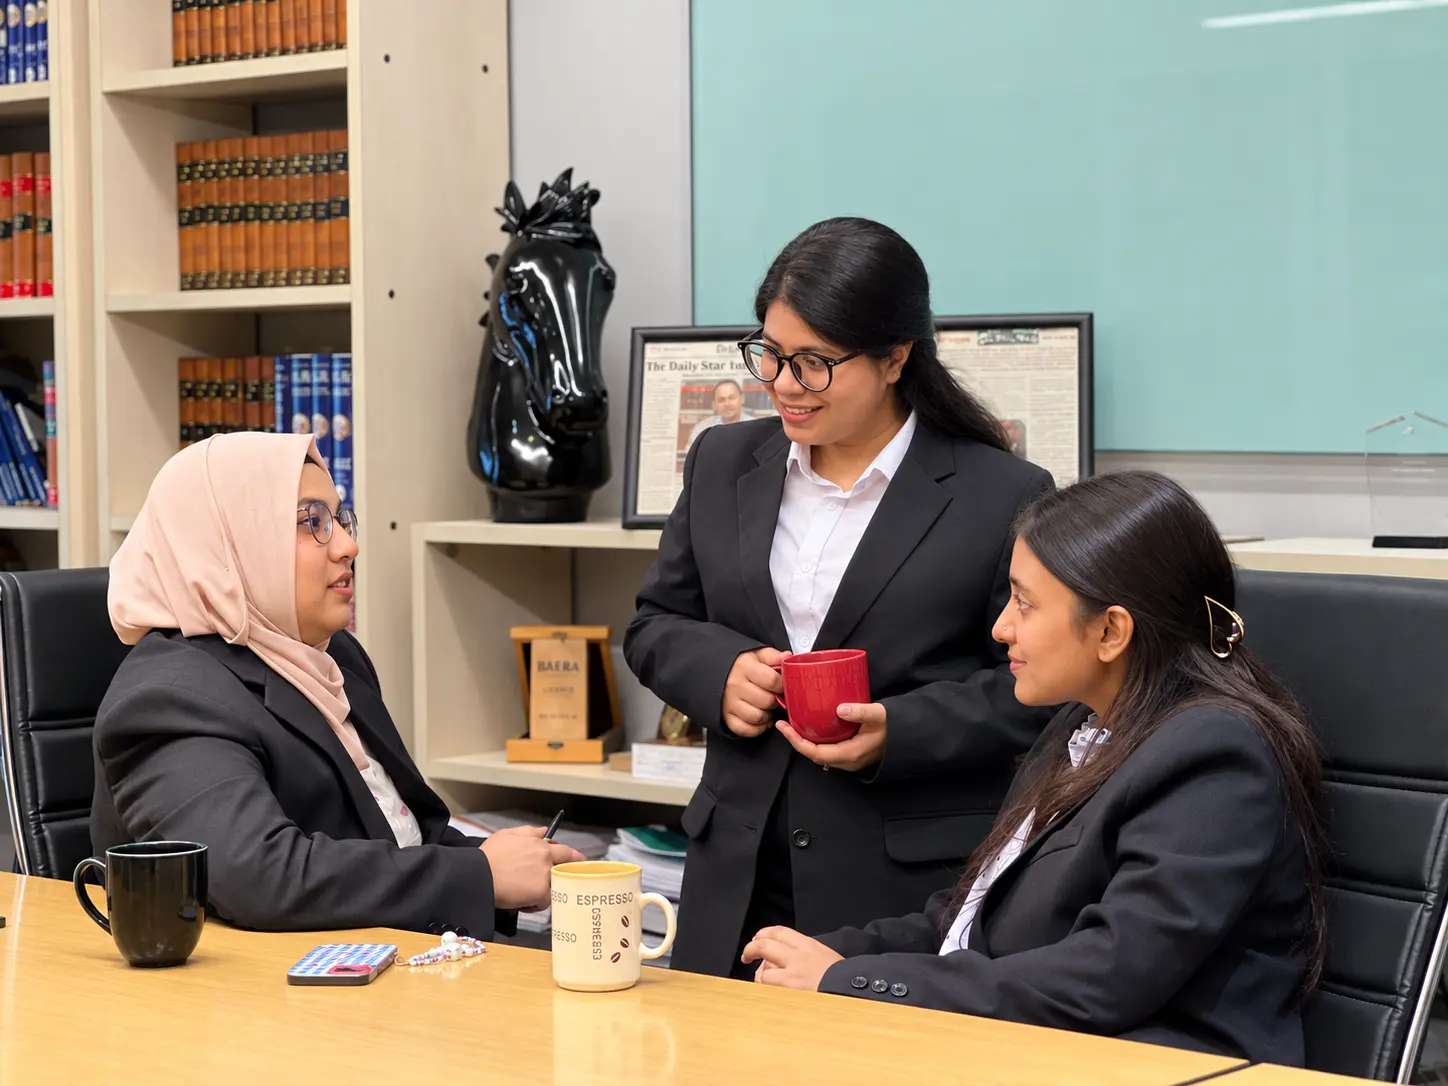
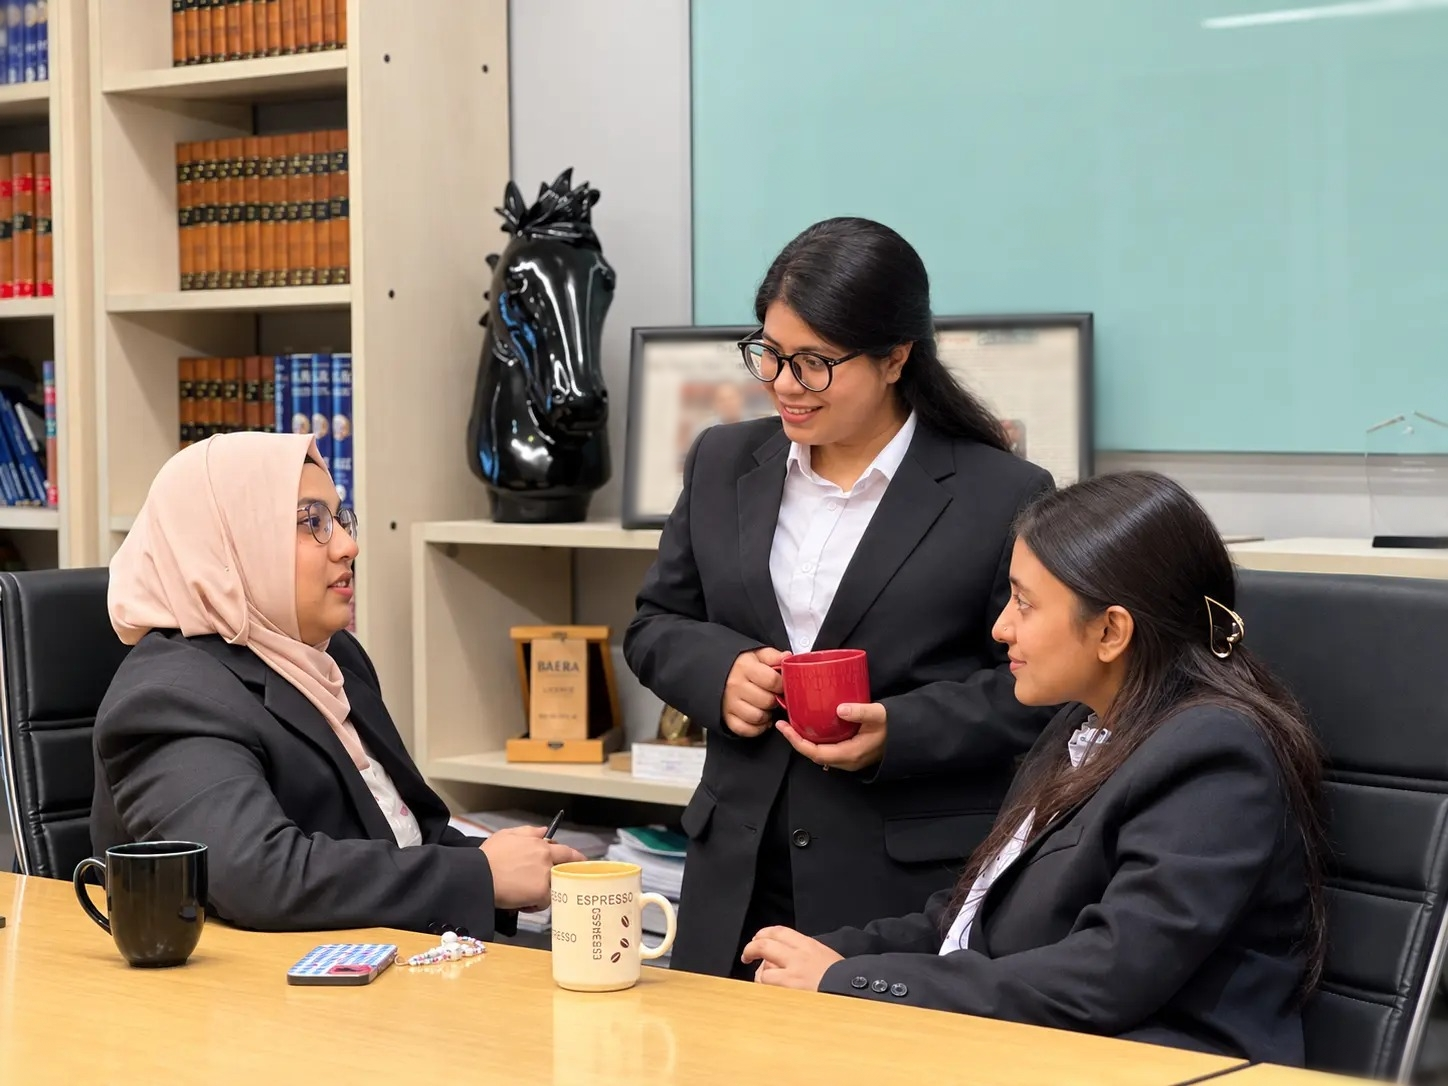
added

diff --git a/client/app/firm/page.tsx b/client/app/firm/page.tsx
@@ -15,7 +15,7 @@ import img1 from "../../public/firm/firm1.webp";
 import img2 from "../../public/firm/firm2.webp";
 import img3 from "../../public/firm/firm3.webp";
 import img4 from "../../public/firm/firm4.webp";
-import img5 from "../../public/firm/firm5.webp";
+import img5 from "../../public/firm/firm5.jpeg";
 import img6 from "../../public/firm/firm26.webp";
 import img7 from "../../public/firm/firm27.webp";
 import img8 from "../../public/firm/firm8.webp";

diff --git a/client/app/careers/page.tsx b/client/app/careers/page.tsx
@@ -21,7 +21,7 @@ export default function CareersPage() {
         sizes="100vw"
         className="object-cover object-center"
       />
-        <div className="absolute inset-0 bg-black/45" />
+        <div className="absolute inset-0 bg-black/15" />
 
         
       </section>
